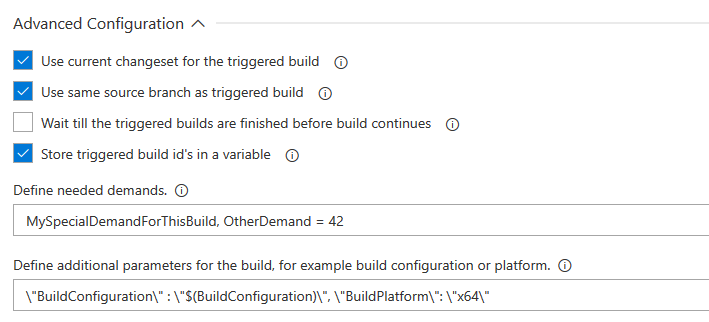
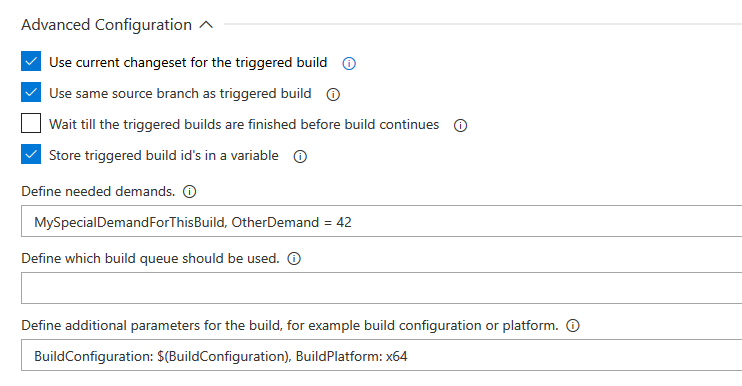
Updated both tasks with newest version of tfsrestservice. Updated overview with new syntax for parameters. Updated release notes

diff --git a/BuildTasks/overview.md b/BuildTasks/overview.md
@@ -125,11 +125,10 @@ Specify here the name or the id of the agent queue that you want to use. If not 
 ### Build Parameters
 This field allows to parametrize the triggered build. The option you can specify via the GUI if you queue the build manually can be passed here. As you can see in the screenshot above, the syntax to specify those parameters is a bit tricky.  
 You need to specify first the name of the variable you want to set, as you can see it in the Variables Tab of the build you want to trigger. Then the value can be set after a *:*   
-**All** variable names and values must be enclosed by a *\\"*  
-\\"VariableIWantToSet\\" : \\"WhateverValue\\"  
+**VariableIWantToSet: WhateverValue**  
 You can specify multiple parameters, just append a *,* after the value and then specify the next variable-value pair.  
 It is as well possible to make use of the build variables of the build that is running. For example if you want to reuse the Build Configuration for the triggered build, you can do so by using the following syntax for the value part:  
-\"$(BuildConfiguration)\"  
+*$(BuildConfiguration)*  
 This will work with every variable you have defined in your build.  
   
 **Note:** If you set a variable via these parameters that is not settable at queue time, the Build Task will still succeed. However, the build that is triggered might fail. For example if the build configuration is not settable at queue time but fix set to Release, and you specify the parameter anyway and will pass "Debug", you will get the follwing error:  

diff --git a/BuildTasks/ReleaseNotes.md b/BuildTasks/ReleaseNotes.md
@@ -1,5 +1,16 @@
 # Release Notes
 
+## Version 2.6.0
+- Build Parameters are now properly escaped to produce a valid JSON format ([Special Characters are not escaped in JSON that is sent to Server](https://github.com/huserben/TfsExtensions/issues/47) and [Build Trigger failing for paths](https://github.com/huserben/TfsExtensions/issues/51))  
+- Build can now be triggered even if there are now active Build Agents at the moment. Validation Warnings are shown if there are any, even if the build was successfully triggered. ([Build not Triggered if there are no active Build Agents](https://github.com/huserben/TfsExtensions/issues/50))  
+
+
+### Acknowledgements
+Thank you goes to all of the following users, who contributed feedback, bug reports, code submissions, testing, and reviews which helped in this release.  
+- [**@jfinnegan3**](https://github.com/jfinnegan3)  
+- [**@Tadimsky**](https://github.com/Tadimsky)  
+- [**@JeffRausch**](https://github.com/JeffRausch) 
+
 ## Version 2.5
 - Added option for Build in Queue Condition to treat In Progress Builds as blocking ([Consider option for blocking against inProgress builds](https://github.com/huserben/TfsExtensions/issues/46))  
 - Fixed bug that task was not able to access the server if a different Team Project/Server was used and the specified URL contained escaped spaces ([Use different Team Project with escaped URL fails](https://github.com/huserben/TfsExtensions/issues/41))  
